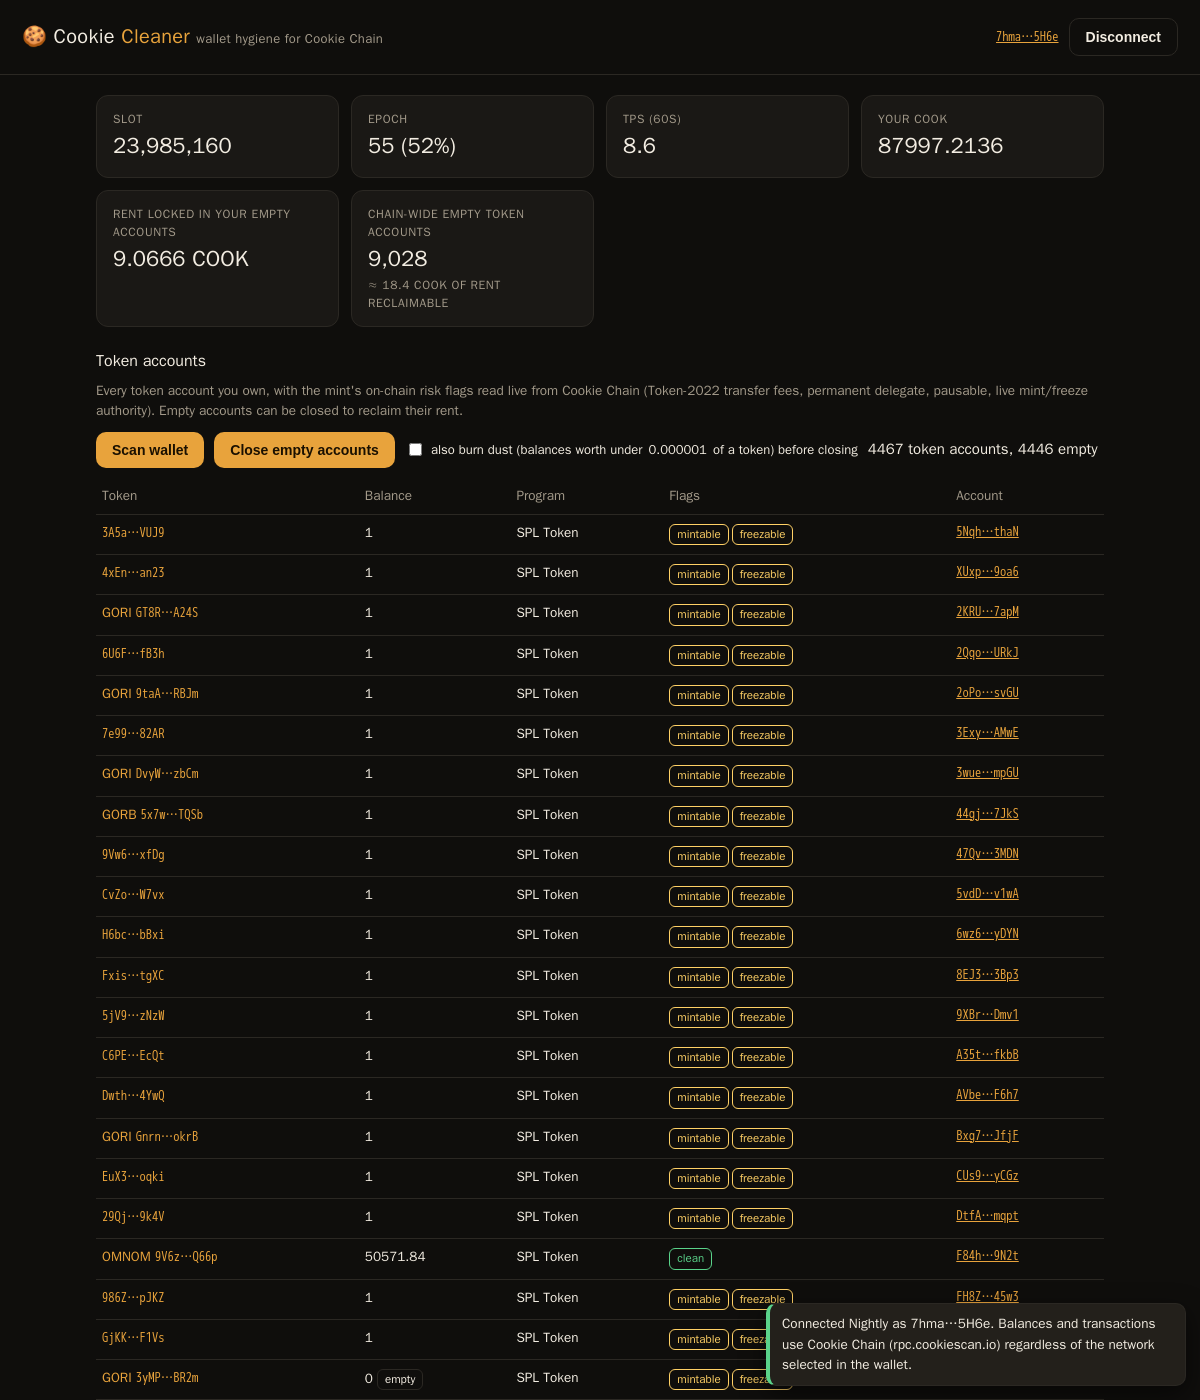
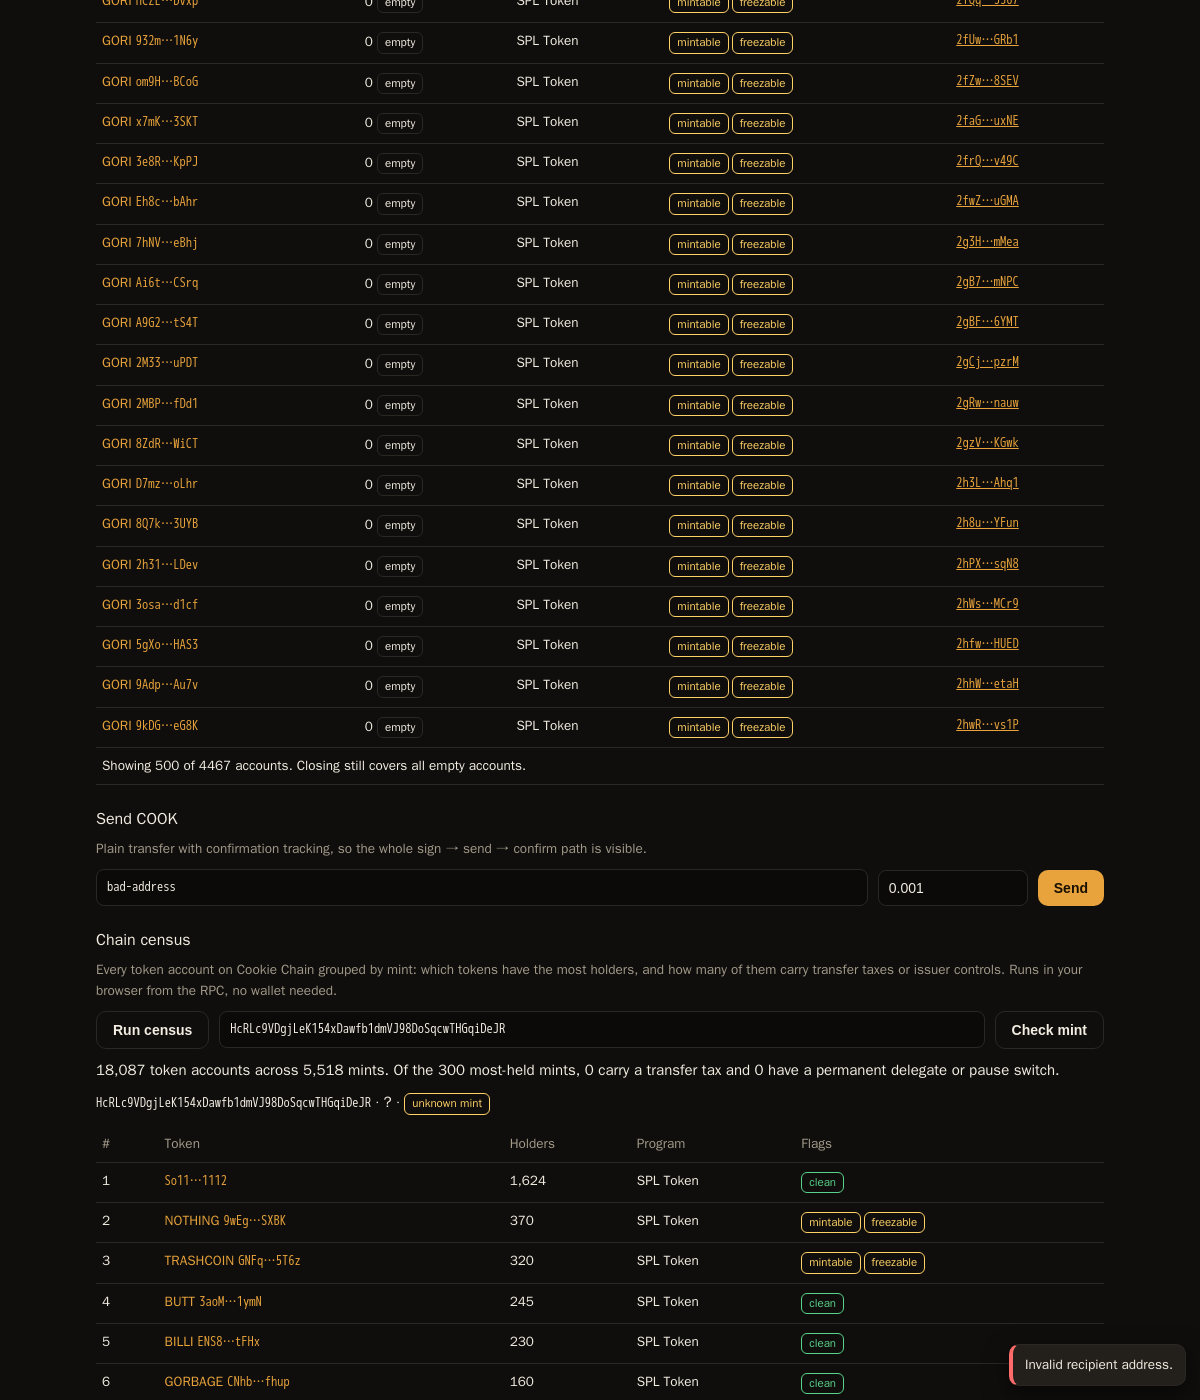
Chain census (holders per mint, tax/control share) and mint lookup
Claude-Session: https://claude.ai/code/session_01ANS4ryDEhYqrLoKdXbeDq9

diff --git a/index.html b/index.html
@@ -66,6 +66,17 @@ h2{font-size:16px;margin:22px 0 8px}p.muted{color:var(--muted);margin:4px 0 10px
     <button id="btnSend" disabled>Send</button>
   </div>
 
+  <h2>Chain census</h2>
+  <p class="muted">Every token account on Cookie Chain grouped by mint: which tokens have the most holders, and how many of them carry transfer taxes or issuer controls. Runs in your browser from the RPC, no wallet needed.</p>
+  <div class="row">
+    <button id="btnCensus" class="sec">Run census</button>
+    <input id="lookup" placeholder="or paste any mint address to check its flags" class="mono" style="flex:1;min-width:280px">
+    <button id="btnLookup" class="sec">Check mint</button>
+    <span id="censusInfo" class="muted"></span>
+  </div>
+  <div id="lookupOut" class="muted" style="margin:6px 0 10px"></div>
+  <div class="wrap"><table id="census"><thead><tr><th>#</th><th>Token</th><th>Holders</th><th>Program</th><th>Flags</th></tr></thead><tbody></tbody></table></div>
+
   <h2>Recent activity</h2>
   <div class="wrap"><table id="hist"><thead><tr><th>Signature</th><th>Slot</th><th>Time</th><th>Status</th></tr></thead><tbody></tbody></table></div>
 
@@ -196,7 +207,7 @@ async function loadMints(mints) {
 function parseMint(v) {
   let out = { flags: [], program: '?' };
   try {
-    if (!v || !v.data || !v.data.parsed) { out.flags.push({ t: 'unknown mint', c: 'warn' }); return out; }
+    if (!v || !v.data || !v.data.parsed) { out.flags.push({ t: 'not found on Cookie Chain', c: 'warn' }); return out; }
     const info = v.data.parsed.info; out.program = v.owner.equals(TOKEN22) ? 'Token-2022' : 'SPL Token'; out.decimals = info.decimals;
     const ext = {}; for (const e of info.extensions || []) ext[e.extension] = e.state || {};
     if (ext.tokenMetadata && ext.tokenMetadata.symbol) out.name = ext.tokenMetadata.symbol;
@@ -294,6 +305,34 @@ async function send() {
   catch (e) { toast('Send failed: ' + e.message, 'bad', 15000); }
   $('btnSend').disabled = false; await refreshBalance(); await history();
 }
+// ---------- Chain census + mint lookup (no wallet needed) ----------
+async function census() {
+  $('btnCensus').disabled = true; $('censusInfo').textContent = 'reading all token accounts…';
+  try {
+    const counts = new Map(); let total = 0;
+    for (const pid of [TOKEN, TOKEN22]) {
+      const accs = await conn.getProgramAccounts(pid, { dataSlice: { offset: 0, length: 32 }, filters: [{ dataSize: 165 }] });
+      for (const a of accs) { total++; const m = new W.PublicKey(a.account.data.slice(0, 32)).toBase58(); counts.set(m, (counts.get(m) || 0) + 1); }
+    }
+    const top = [...counts.entries()].sort((a, b) => b[1] - a[1]).slice(0, 20);
+    await loadMints(top.map(t => t[0])); await loadNames(top.map(t => t[0]));
+    // tax share across all mints held: sample up to 300 most-held mints
+    const sample = [...counts.entries()].sort((a, b) => b[1] - a[1]).slice(0, 300).map(t => t[0]); await loadMints(sample);
+    const taxed = sample.filter(m => (mintCache.get(m) || {}).flags?.some(f => /tax/.test(f.t))).length;
+    const ctrl = sample.filter(m => (mintCache.get(m) || {}).flags?.some(f => /delegate|pausable/.test(f.t))).length;
+    const tb = $('census').tBodies[0]; tb.innerHTML = '';
+    top.forEach(([m, n], i) => { const mi = mintCache.get(m) || { flags: [], program: '?' }; const tr = document.createElement('tr');
+      const label = mi.name ? `<b>${mi.name.replace(/[<>&]/g, '')}</b> <span class="mono muted">${short(m)}</span>` : `<span class="mono">${short(m)}</span>`;
+      tr.innerHTML = `<td>${i + 1}</td><td><a target="_blank" rel="noopener" href="${EXPLORER}/token/${m}" style="text-decoration:none">${label}</a></td><td>${n.toLocaleString()}</td><td>${mi.program}</td><td>${mi.flags.map(f => `<span class="tag ${f.c}">${f.t}</span>`).join('')}</td>`; tb.appendChild(tr); });
+    $('censusInfo').textContent = `${total.toLocaleString()} token accounts across ${counts.size.toLocaleString()} mints. Of the 300 most-held mints, ${taxed} carry a transfer tax and ${ctrl} have a permanent delegate or pause switch.`;
+  } catch (e) { toast('Census failed: ' + e.message, 'bad'); $('censusInfo').textContent = ''; }
+  $('btnCensus').disabled = false;
+}
+async function lookup() {
+  let m; try { m = new W.PublicKey($('lookup').value.trim()).toBase58(); } catch (e) { return toast('Not a valid address.', 'bad'); }
+  $('lookupOut').textContent = 'reading…'; mintCache.delete(m); await loadMints([m]); await loadNames([m]);
+  const mi = mintCache.get(m); $('lookupOut').innerHTML = `${mi.name ? '<b>' + mi.name.replace(/[<>&]/g, '') + '</b> ' : ''}<span class="mono">${m}</span> · ${mi.program} · ${mi.flags.map(f => `<span class="tag ${f.c}">${f.t}</span>`).join('')}`;
+}
 async function history() {
   try {
     const sigs = await conn.getSignaturesForAddress(pubkey, { limit: 10 });
@@ -304,6 +343,7 @@ async function history() {
 
 $('btnConnect').onclick = () => connect().catch(e => toast('Connect failed: ' + e.message, 'bad'));
 $('btnDisconnect').onclick = disconnect; $('btnScan').onclick = scan; $('btnClose').onclick = closeEmpties; $('btnSend').onclick = send;
+$('btnCensus').onclick = census; $('btnLookup').onclick = lookup;
 stats(); setInterval(stats, 15000); chainStats();
 </script>
 </body>

diff --git a/pw_test.js b/pw_test.js
@@ -24,5 +24,8 @@ const srv=http.createServer((q,r)=>{r.end(fs.readFileSync(path.join(__dirname,'i
  if(!closeDisabled){await p.click('#btnClose');await p.waitForTimeout(8000);const toasts=await p.$$eval('#toasts .toast',t=>t.map(x=>x.innerText));console.log('toasts',toasts);}
  await p.fill('#to','bad-address');await p.fill('#amt','0.001');await p.click('#btnSend');await p.waitForTimeout(800);
  console.log('send-validation toast',await p.$$eval('#toasts .toast',t=>t.map(x=>x.innerText).slice(-1)));
+ await p.click('#btnCensus');await p.waitForFunction(()=>/token accounts across/.test(document.getElementById('censusInfo').textContent),null,{timeout:240000});console.log('census',await p.textContent('#censusInfo'));console.log('top',await p.$$eval('#census tbody tr',rs=>rs.slice(0,3).map(r=>r.innerText.replace(/\s+/g,' '))));
+ await p.fill('#lookup','HcRLc9VDgjLeK154xDawfb1dmVJ98DoSqcwTHGqiDeJR');await p.click('#btnLookup');await p.waitForTimeout(4000);console.log('lookup',await p.textContent('#lookupOut'));
+ await p.screenshot({path:'screenshot.png',fullPage:false});
  console.log('errors',errors);await b.close();srv.close();
 })().catch(e=>{console.error('TEST FAIL',e);process.exit(1)});
